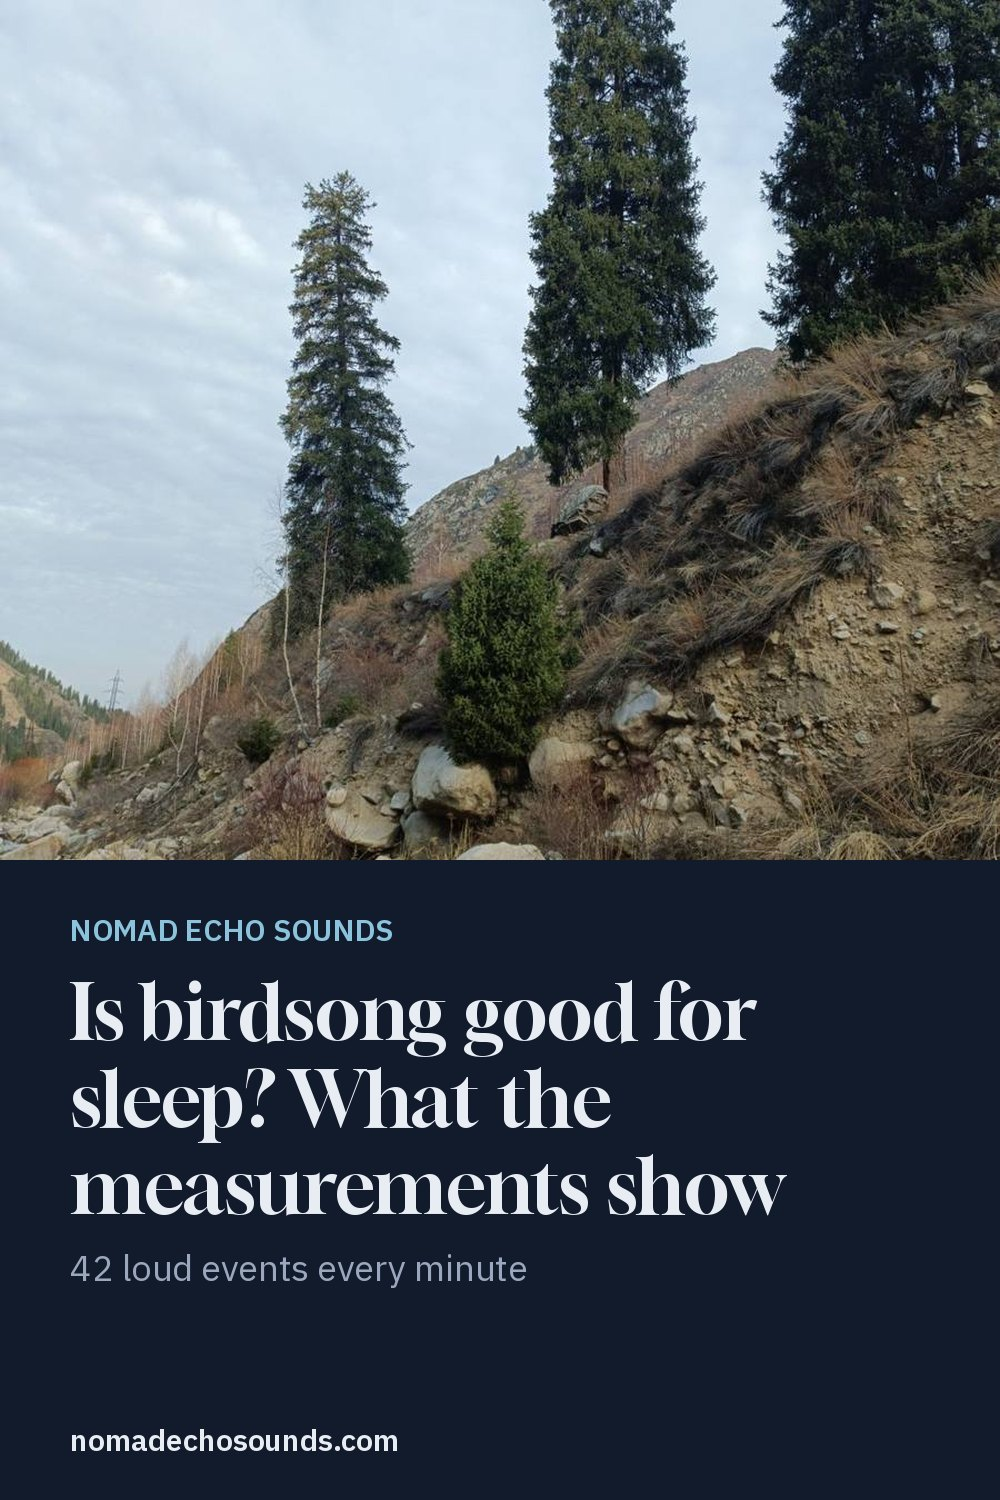
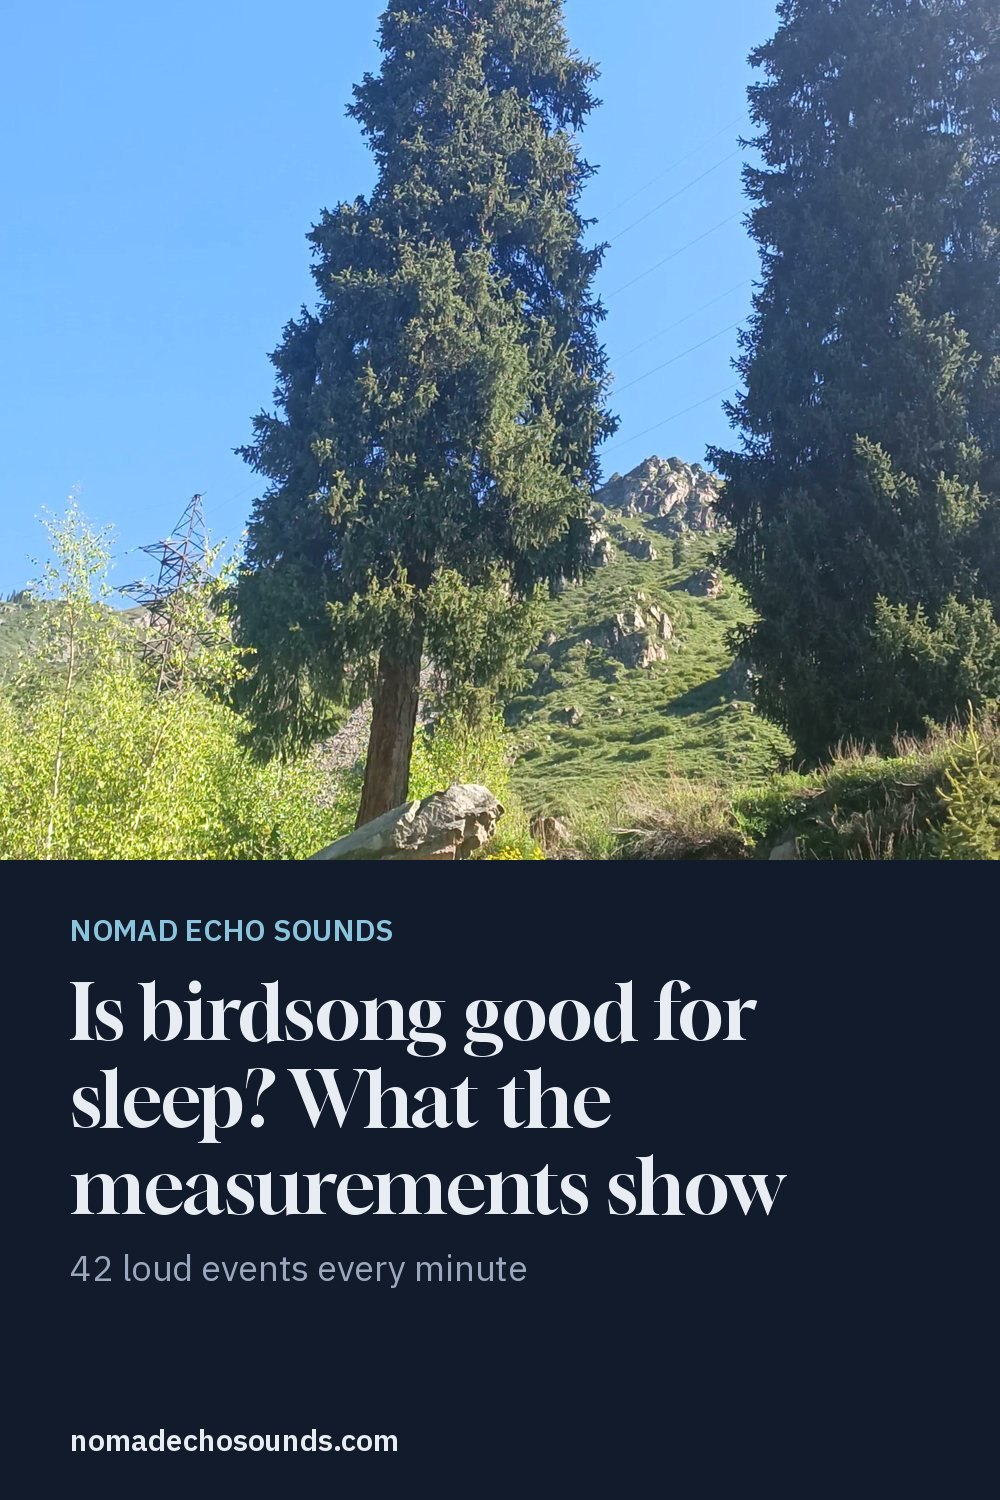
More field photos and extra Pinterest pins
- Field notes: sunlit cascade, macro drops at the mossy spring, Kapchagay waves on red gravel and turquoise water over red rock
- Feed: support several pins per article (PIN_EXTRA); five new pin variants; new birdsong pin photo
- Photos re-encoded without EXIF/GPS

Claude-Session: https://claude.ai/code/session_017wVdazK8FSXuBGUAf4ZH77

diff --git a/tian-shan-field-recordings/index.html b/tian-shan-field-recordings/index.html
@@ -93,6 +93,7 @@
       <li><b>Distance from the water.</b> Too close and the recorder hears every splash. A few metres back, the sound blends into one smooth layer.</li>
     </ul>
     <p>We also learned not to judge a spot by how it looks. One stream that looked like a noisy cascade turned out to be <a href="/recordings/mountain-brook/">the steadiest recording we have</a>. Every recording is <a href="/tinnitus-masking-sounds/">measured</a> before we use it, and some, like <a href="/birdsong-for-sleep/">dawn birdsong</a>, do not pass.</p>
+    <figure class="photo" style="max-width:460px"><picture><source srcset="/assets/img/gorge-sunlit-cascade.webp" type="image/webp"><img src="/assets/img/gorge-sunlit-cascade.jpg" alt="A small sunlit cascade of clear water falling between mossy granite boulders" width="1000" height="1500" loading="lazy"></picture><figcaption>A small cascade in an Ile Alatau gorge. Beautiful, but drops like this add splashes, so it gets measured before we trust it.</figcaption></figure>
 
     <h2>Autumn in the Big Almaty gorge</h2>
     <p>In autumn we followed the river up the gorge of the Bolshaya Almatinka, the Big Almaty river, to a spot at 1,466 m, where we recorded several river takes on the Zoom H5 and filmed the water. The water here runs fast and very clear over pink and grey granite, and in October the poplars along the banks turn yellow while their leaves collect between the stones in the current.</p>
@@ -151,6 +152,7 @@
       <figure class="photo"><picture><source srcset="/assets/img/mossy-spring-flex-tripod.webp" type="image/webp"><img src="/assets/img/mossy-spring-flex-tripod.jpg" alt="Phone on a small flexible tripod filming the mossy spring, the Zoom H5 lying on a moss cushion behind it" width="1000" height="1500" loading="lazy"></picture><figcaption>Macro setup: phone on a flexible tripod, recorder on the moss.</figcaption></figure>
       <figure class="photo"><picture><source srcset="/assets/img/mossy-spring-macro-screen.webp" type="image/webp"><img src="/assets/img/mossy-spring-macro-screen.jpg" alt="Phone screen during recording showing water drops falling onto green moss in macro, timer at 34 seconds" width="1000" height="1500" loading="lazy"></picture><figcaption>On the phone screen, 34 seconds into a take: single drops on the moss.</figcaption></figure>
     </div>
+    <figure class="photo" style="max-width:460px"><picture><source srcset="/assets/img/mossy-spring-drops-macro.webp" type="image/webp"><img src="/assets/img/mossy-spring-drops-macro.jpg" alt="Macro of a chain of clear water drops falling onto bright green moss" width="1000" height="1500" loading="lazy"></picture><figcaption>The "crystal tears": drops falling onto the moss, filmed in macro.</figcaption></figure>
     <p>Water from this pipe is also one of the sources we shape into our <a href="/library/#noise">noise tracks</a>.</p>
 
 
@@ -172,6 +174,12 @@
       <figure class="photo"><picture><source srcset="/assets/img/kapchagay-gravel-shore-setup.webp" type="image/webp"><img src="/assets/img/kapchagay-gravel-shore-setup.jpg" alt="Tripod with a phone on a red gravel beach where small waves meet the shore" width="1000" height="1500" loading="lazy"></picture><figcaption>Red gravel beach, small waves at the water line.</figcaption></figure>
     </div>
     <figure class="photo" style="max-width:420px"><picture><source srcset="/assets/img/kapchagay-zoom-h5-water-edge.webp" type="image/webp"><img src="/assets/img/kapchagay-zoom-h5-water-edge.jpg" alt="View from above of the recorder windscreen on wet grass at the edge of clear shallow water" width="1000" height="1500" loading="lazy"></picture><figcaption>Recorder on wet grass at the water's edge, seen from above.</figcaption></figure>
+
+    <p>On windier days the waves reach the red gravel beaches in small, regular breaks, and in the rocky bays the water turns a clear turquoise over red stone.</p>
+    <div class="photo-pair">
+      <figure class="photo"><picture><source srcset="/assets/img/kapchagay-waves-red-gravel.webp" type="image/webp"><img src="/assets/img/kapchagay-waves-red-gravel.jpg" alt="Small waves breaking in white foam on a red gravel beach at the Kapchagay reservoir" width="1000" height="1500" loading="lazy"></picture><figcaption>Small waves on red gravel.</figcaption></figure>
+      <figure class="photo"><picture><source srcset="/assets/img/kapchagay-turquoise-red-rocks.webp" type="image/webp"><img src="/assets/img/kapchagay-turquoise-red-rocks.jpg" alt="Clear turquoise water lapping against dark and red rocks on the Kapchagay shore, sun glinting on the surface" width="1000" height="1500" loading="lazy"></picture><figcaption>Turquoise water against red rock.</figcaption></figure>
+    </div>
 
     <h2>Listen</h2>
     <div class="videos">

diff --git a/scripts/build_feed.py b/scripts/build_feed.py
@@ -19,7 +19,7 @@ FONTS = ROOT / "scripts" / "fonts"
 PINS = {
     "/nature-sound-measurements/": ("big-almaty-stone-moss", "Mountain brook 0.31 dB vs birdsong 3.73 dB"),
     "/tinnitus-masking-sounds/": ("big-almaty-stream-foam", "We measured real mountain water"),
-    "/birdsong-for-sleep/": ("ile-alatau-spruce-slope", "42 loud events every minute"),
+    "/birdsong-for-sleep/": ("tian-shan-spruce-blue-sky", "42 loud events every minute"),
     "/recordings/mountain-brook/": ("big-almaty-clear-pebbles", "0.31 dB loudness variation"),
     "/recordings/mountain-river/": ("big-almaty-cascade", "Loud but constant: 0.62 dB"),
     "/tian-shan-field-recordings/": ("big-almaty-gorge-autumn-stream", "Big Almaty gorge, 1,466 m"),
@@ -29,8 +29,17 @@ PINS = {
 PIN_VERSION = {
     "/nature-sound-measurements/": 2, "/tinnitus-masking-sounds/": 2,
     "/recordings/mountain-brook/": 2, "/recordings/mountain-river/": 2,
-    "/tian-shan-field-recordings/": 2,
+    "/tian-shan-field-recordings/": 2, "/birdsong-for-sleep/": 2,
 }
+# Extra pins for the same article with a different photo and subtitle
+# (Pinterest favours several fresh pins per URL). (path, tag, photo, subtitle)
+PIN_EXTRA = [
+    ("/tinnitus-masking-sounds/", "b", "gorge-clear-pool-ripples", "Steady water, measured in decibels"),
+    ("/tian-shan-field-recordings/", "b", "kapchagay-turquoise-red-rocks", "Kapchagay reservoir, Kazakhstan"),
+    ("/tian-shan-field-recordings/", "c", "mossy-spring-drops-macro", "A secret mossy spring in the Tian Shan"),
+    ("/recordings/mountain-river/", "b", "gorge-sunlit-cascade", "Real mountain water, no AI audio"),
+    ("/nature-sound-measurements/", "b", "kapchagay-waves-red-gravel", "Waves, brooks and birds, measured"),
+]
 DEFAULT_SUB = "Real field recordings from the Tian Shan"
 
 
@@ -75,7 +84,7 @@ def make_pin(slug, photo, title, sub):
     return out
 
 
-def page_info(url):
+def page_info(url, extra=None):
     path = url.replace(SITE, "") or "/"
     if path in SKIP:
         return None
@@ -93,6 +102,10 @@ def page_info(url):
     photo, sub = PINS.get(path, (img.group(1), DEFAULT_SUB))
     title = html.unescape(title)
     slug = path.strip("/").replace("/", "-")
+    guid = url + (f"#pin{PIN_VERSION[path]}" if path in PIN_VERSION else "")
+    if extra:
+        tag, photo, sub = extra
+        slug, guid = f"{slug}-{tag}", f"{url}#pin-{tag}"
     try:
         pin = make_pin(slug, photo, title, sub)
         image = f"{SITE}/assets/pins/{slug}.jpg"
@@ -102,7 +115,7 @@ def page_info(url):
         image = f"{SITE}/assets/img/{photo}.jpg"
     return {
         "title": title, "desc": html.unescape(desc), "link": url,
-        "guid": url + (f"#pin{PIN_VERSION[path]}" if path in PIN_VERSION else ""),
+        "guid": guid,
         "image": image, "length": pin.stat().st_size,
         "date": datetime.datetime.fromisoformat(date.group(1) + "T09:00:00+05:00"),
     }
@@ -110,7 +123,13 @@ def page_info(url):
 
 def main():
     xml = (ROOT / "sitemap.xml").read_text(encoding="utf-8")
-    items = [i for i in (page_info(u) for u in re.findall(r"<loc>([^<]+)</loc>", xml)) if i]
+    urls = re.findall(r"<loc>([^<]+)</loc>", xml)
+    items = [i for i in (page_info(u) for u in urls) if i]
+    for path, tag, photo, sub in PIN_EXTRA:
+        if SITE + path in urls:
+            i = page_info(SITE + path, (tag, photo, sub))
+            if i:
+                items.append(i)
     items.sort(key=lambda i: i["date"], reverse=True)
     esc = lambda t: html.escape(t, quote=False)
     out = ['<?xml version="1.0" encoding="UTF-8"?>',
